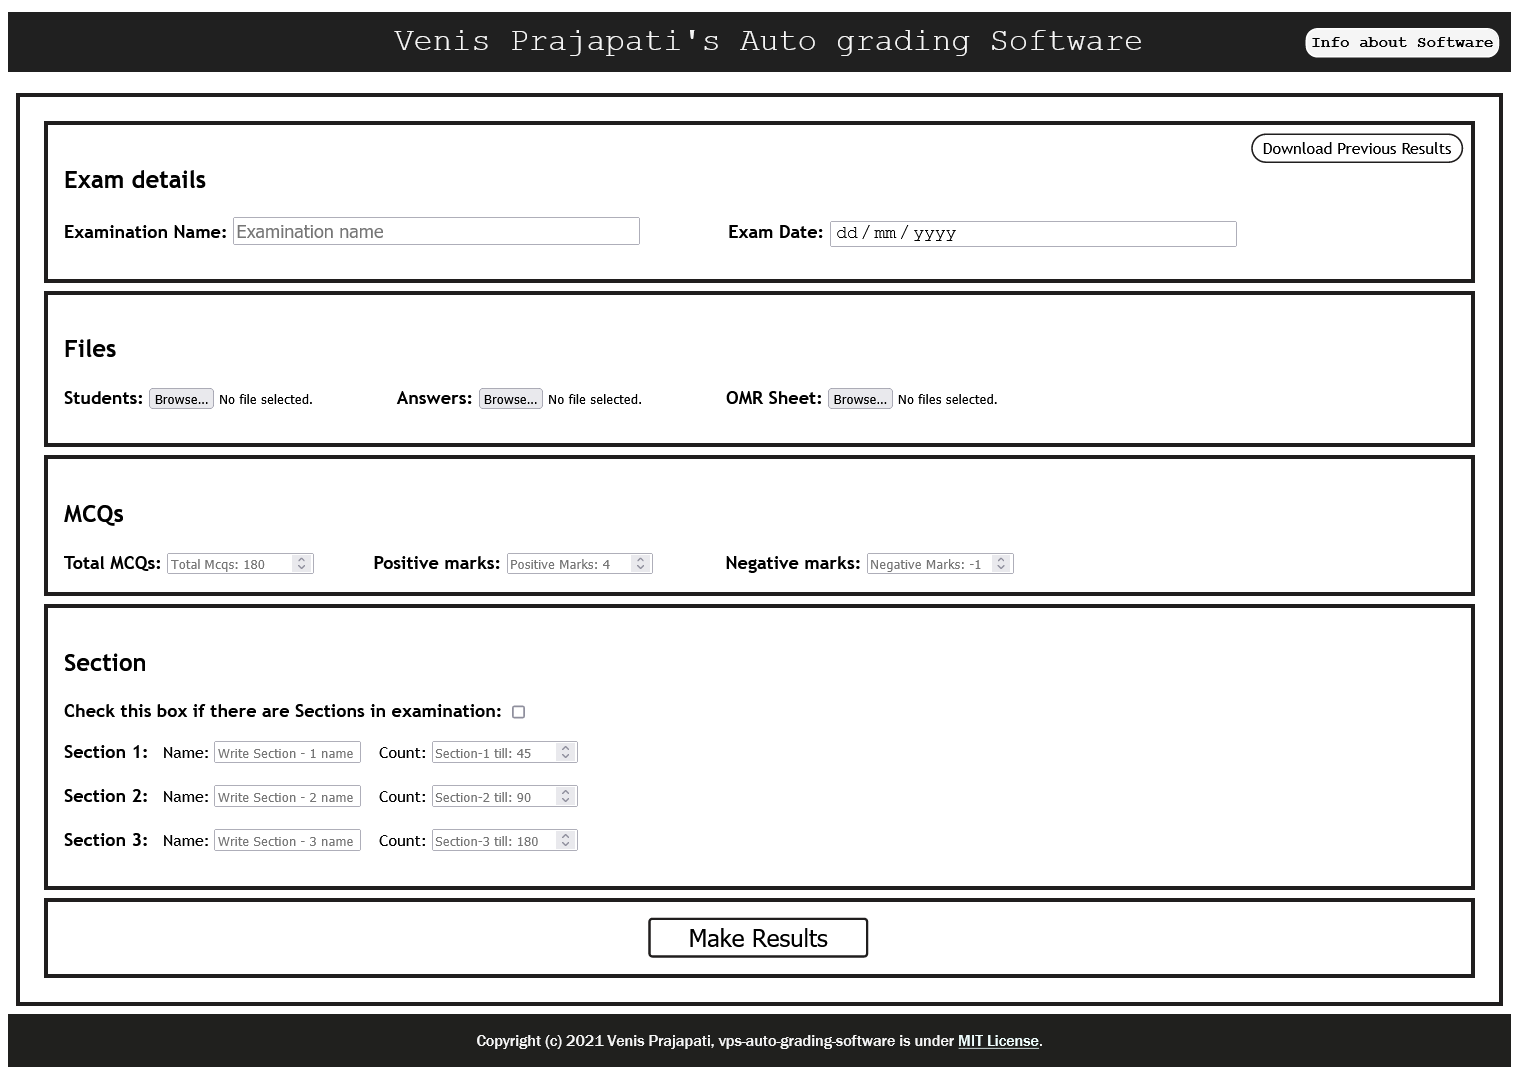
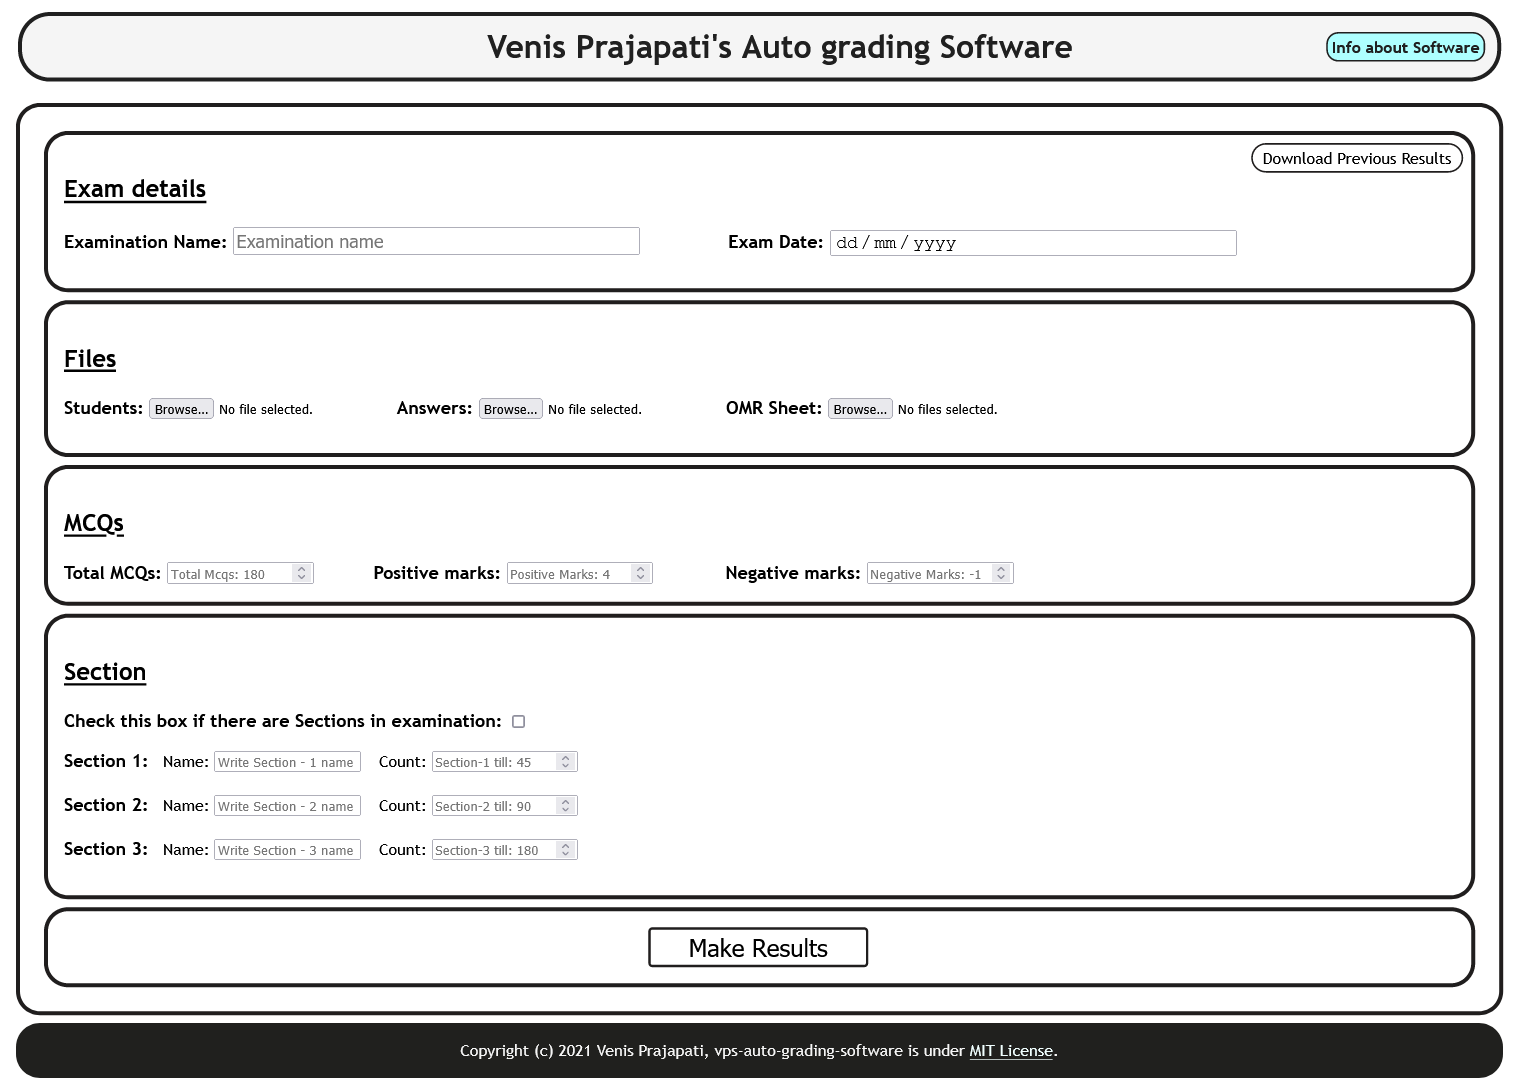
updated ui for v.2 # v.2.8

diff --git a/static/css/main.css b/static/css/main.css
@@ -1,22 +1,28 @@
 .v1 {
-    background-color: rgb(32, 32, 32);
-    color: whitesmoke;
+    background-color: whitesmoke;
+    border: 4px solid rgb(32, 32, 32);
+    border-radius: 32px;
+    color: rgb(32, 32, 32);
     font-size: 32px;
-    font-family: 'Courier New', Courier, monospace;
-    font-weight: normal;
+    font-family: 'Trebuchet MS', 'Lucida Sans Unicode', 'Lucida Grande', 'Lucida Sans', Arial, sans-serif, 'Lucida Sans Regular', 'Lucida Grande', 'Lucida Sans Unicode', Geneva, Verdana, sans-serif;
+    font-weight: bold;
     text-align: center;
     margin-top: 12px;
+    margin-left: 10px;
+    margin-right: 10px;
     padding: 12px;
 }
 
 #frame {
     border: 4px solid rgb(32, 30, 30);
+    border-radius: 24px;
     font-family: 'Trebuchet MS', 'Lucida Sans Unicode', 'Lucida Grande', 'Lucida Sans', Arial, sans-serif, 'Lucida Sans Regular', 'Lucida Grande', 'Lucida Sans Unicode', Geneva, Verdana, sans-serif;
     margin: 8px;
     padding: 16px;
 }
 
 .head-1 {
+    text-decoration: underline;
     font-size: 24px;
 }
 
@@ -41,8 +47,9 @@
 }
 
 .info-links {
-    border: 2px solid white;
-    color:black;
+    border: 2px solid rgb(32, 32, 32);
+    color: rgb(32, 32, 32);
+    background-color: #aeffff;
     font-size: medium;
     font-weight: bold;
     border-radius: 12px;
@@ -78,8 +85,11 @@ footer {
     justify-content: center;
     background-color: rgb(32, 32, 30);
     color: whitesmoke;
-    font-family: 'Franklin Gothic Medium', 'Arial Narrow', Arial, sans-serif;
+    border-radius: 24px;
+    font-family: 'Trebuchet MS', 'Lucida Sans Unicode', 'Lucida Grande', 'Lucida Sans', Arial, sans-serif, 'Lucida Sans Regular', 'Lucida Grande', 'Lucida Sans Unicode', Geneva, Verdana, sans-serif;
     display: flex;
+    margin-left: 8px;
+    margin-right: 8px;
     padding: 2px;
 }
 

diff --git a/templates/info.html b/templates/info.html
@@ -29,10 +29,10 @@
             <hr>
 
             <p class="main-1">
-                Name: Venis Prajapati's Auto grading Software
-                &emsp; &emsp;
+                Name: vps-auto-grading-software
+                &emsp; &emsp; &emsp;
                 Github: <a href="https://github.com/venisprajapati/vps-auto-grading-software">vps-auto-grading-software</a>
-                &emsp; &emsp;
+                &emsp; &emsp; &emsp;
                 License: <a href="https://github.com/venisprajapati/vps-auto-grading-software/blob/main/LICENSE">MIT License</a>
             </p>
             <p class="main-1">

diff --git a/templates/index.html b/templates/index.html
@@ -10,13 +10,13 @@
 
 <div>
 
-    <h1 style="padding-left: 224px;" class="v1">
-        
-        Venis Prajapati's Auto grading Software
-
-        <a style="float: right;" class="info-links" href="/info">Info about Software</a>
-
-    </h1>
+        <h1 style="padding-left: 212px;" class="v1">
+            
+            Venis Prajapati's Auto grading Software
+            
+            <a style="float: right;" class="info-links" href="/info">Info about Software</a>
+            
+        </h1>
 
 
     <div id="frame">

diff --git a/templates/base.html b/templates/base.html
@@ -3,6 +3,9 @@
 
 <head>
 
+    <link rel="shortcut icon" href="/favicon.ico" type="image/x-icon">
+    <link rel="icon" href="/favicon.ico" type="image/x-icon">
+
     <meta charset="UTF-8">
     <meta http-equiv="X-UA-Compatible" content="IE=edge">
     <meta name="viewport" content="width=device-width, initial-scale=1.0">

diff --git a/app.py b/app.py
@@ -16,7 +16,7 @@ import webbrowser
 from waitress import serve
 from threading import Timer
 from werkzeug.utils import secure_filename
-from flask import Flask, render_template, redirect, send_file, request
+from flask import Flask, render_template, redirect, send_file, request, send_from_directory
 from services.final_result_ import MakeFinalResults
 
 
@@ -127,6 +127,11 @@ def info():
     return render_template('info.html')
 
 
+@app.route('/favicon.ico') 
+def favicon(): 
+    return send_from_directory(os.path.join(app.root_path), 'favicon.ico', mimetype='image/vnd.microsoft.icon')
+
+
 def open_web_browser():
     webbrowser.open_new('http://127.0.0.1:2102/')
 
@@ -136,7 +141,7 @@ if __name__ == '__main__':
 
     print("Venis Prajapati's Auto grading Software Started At PORT: http://127.0.0.1:2102/")
 
-    Timer(1, open_web_browser).start()
-    serve(app, host="127.0.0.1", port=2102)
+    # Timer(1, open_web_browser).start()
+    # serve(app, host="127.0.0.1", port=2102)
 
-    # app.run(port=2102, debug=True)
+    app.run(port=2102, debug=True)
